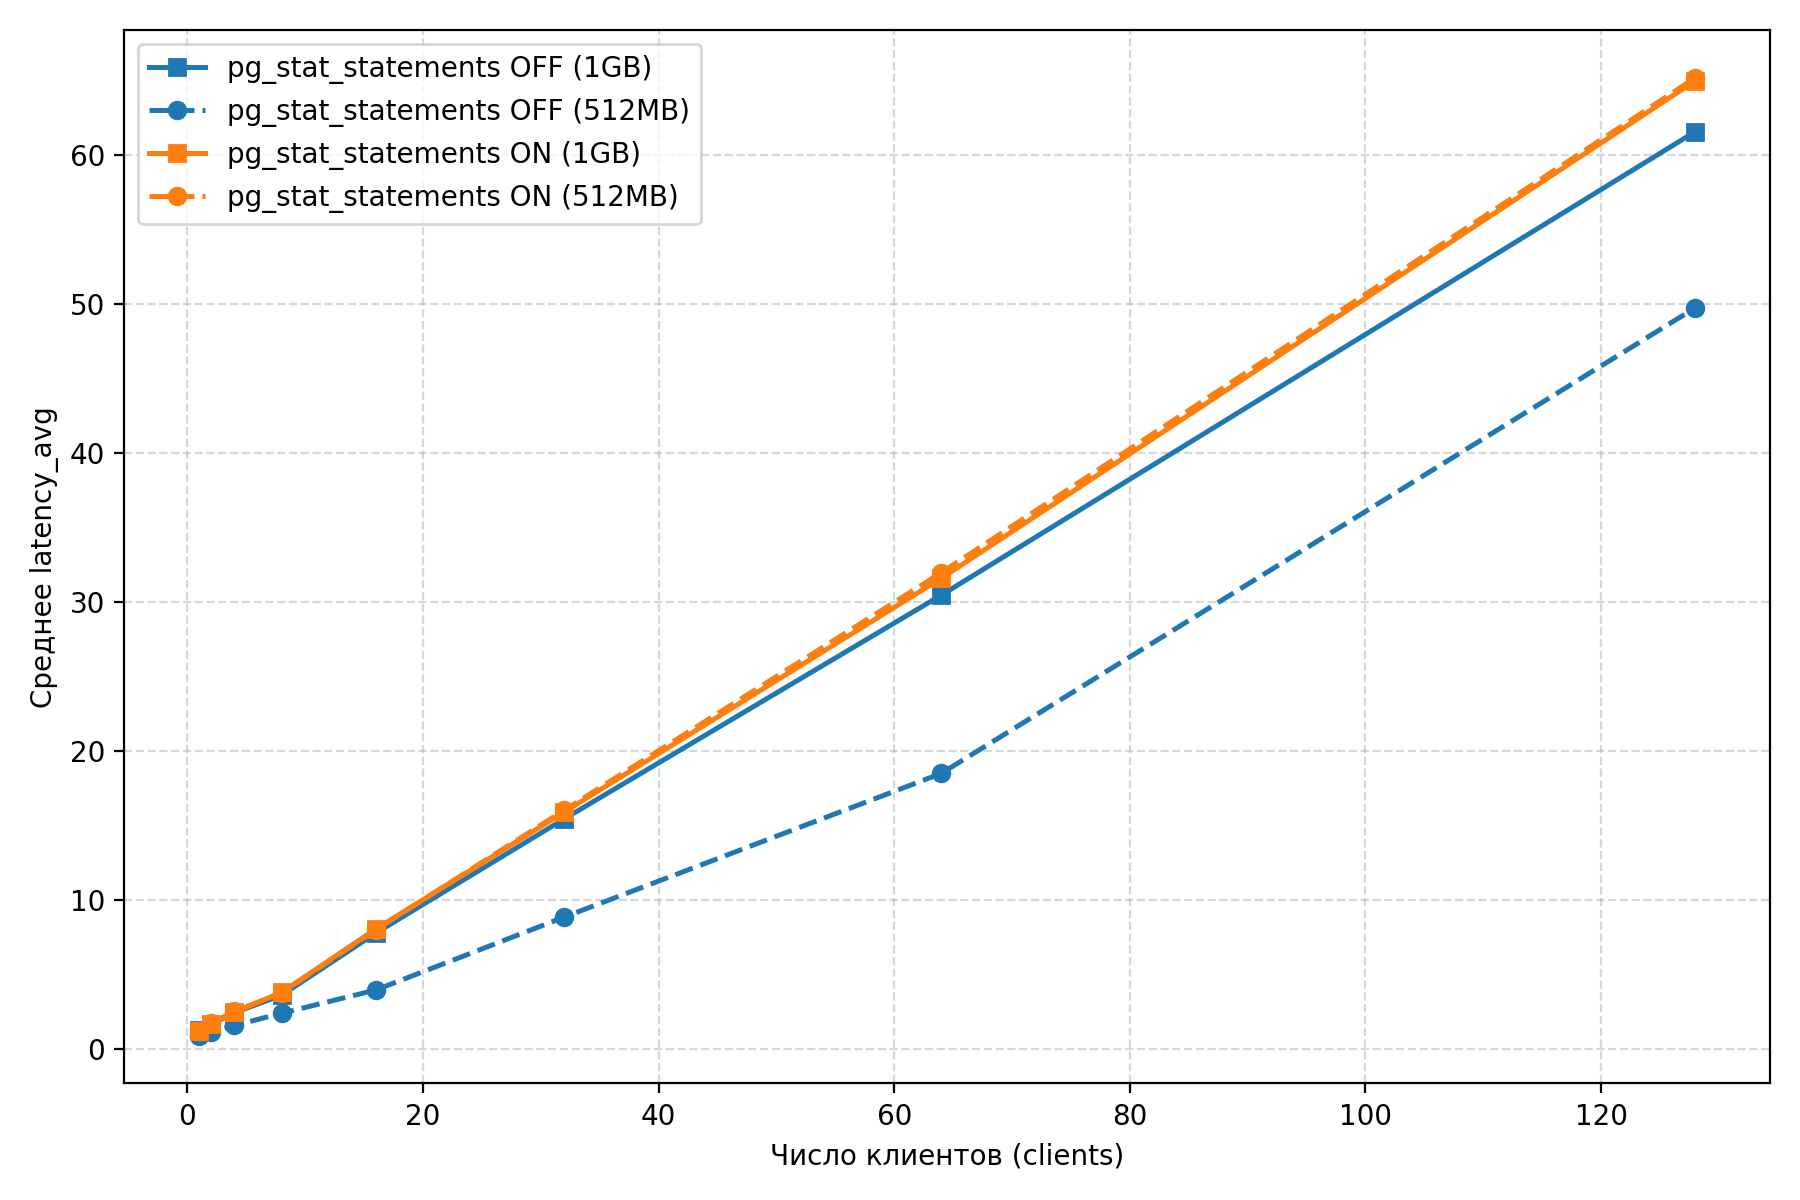
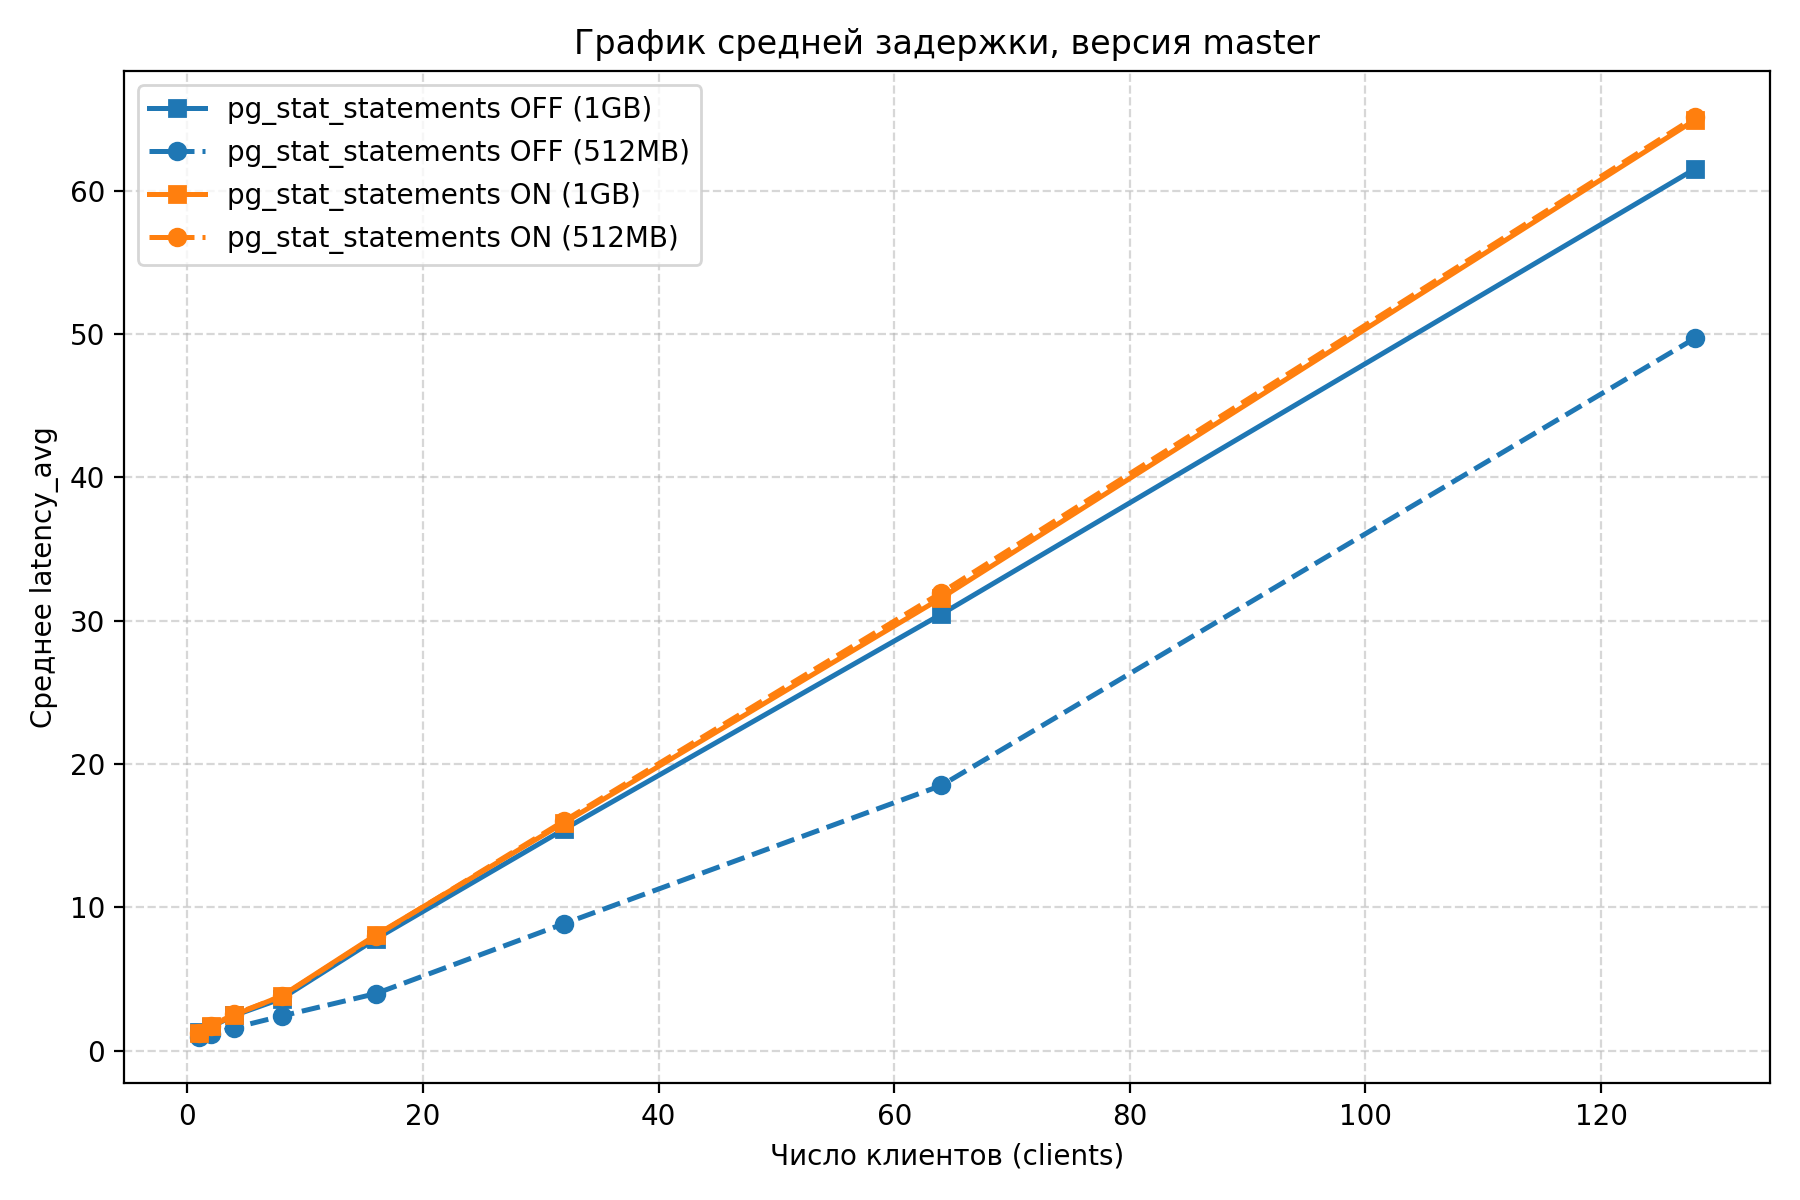
docs: report for task5

diff --git a/python_benchmark_scripts/multirun_mgbench.py b/python_benchmark_scripts/multirun_mgbench.py
@@ -1,9 +1,3 @@
-#!/usr/bin/env python3
-"""
-Нагрузочное тестирование PostgreSQL с pgbench.
-Перебор shared_buffers и числа клиентов, запись результатов в CSV.
-"""
-
 import csv
 import re
 import subprocess
@@ -14,6 +8,7 @@ import sys
 # =============================================
 # Настройки
 # =============================================
+
 DB = "pgbench_test"
 USED_VERSION = sys.argv[1]
 TIME = 60
@@ -31,7 +26,7 @@ PG_CTL = INSTALL_DIR / "bin" / "pg_ctl"
 PGBENCH = INSTALL_DIR / "bin" / "pgbench"
 PSQL = INSTALL_DIR / "bin" / "psql"
 
-RESULT_FILE = Path("tps_results.csv")
+RESULT_FILE = Path(f"results_{USED_VERSION}_unknown.csv")
 TEMP_DIR = Path("temp_results")
 CONF_FILE = DATA_DIR / "postgresql.conf"
 PG_LOG = LOG_DIR / "postgres.log"
@@ -44,6 +39,7 @@ RE_LAT_STDDEV = re.compile(r"latency stddev\s*=\s*([\d.]+)")
 # =============================================
 # Вспомогательные функции
 # =============================================
+
 def run_cmd(cmd):
     """Запустить команду и дождаться завершения. Возвращает CompletedProcess."""
     return subprocess.run(cmd, capture_output=True, text=True)
@@ -58,6 +54,7 @@ def extract(regex, text):
 # =============================================
 # Функция для изменения shared_buffers
 # =============================================
+
 def set_shared_buffers(size):
     print("=" * 41)
     print(f"Устанавливаем shared_buffers = {size}")
@@ -75,11 +72,9 @@ def set_shared_buffers(size):
     )
     CONF_FILE.write_text(new_text, encoding="utf-8")
 
-    # Перезапустить сервер
     run_cmd([str(PG_CTL), "-D", str(DATA_DIR), "-l", str(PG_LOG), "restart"])
     time.sleep(2)
 
-    # Проверить, что параметр применился
     if USED_VERSION == "master":
         cp = run_cmd([str(PSQL), "-d", "postgres", "-t", "-c", "SHOW shared_buffers;"])
     else:
@@ -91,11 +86,11 @@ def set_shared_buffers(size):
 # =============================================
 # Функция для запуска одного теста и извлечения результатов
 # =============================================
+
 def run_and_extract(buffers, clients, run_num):
     temp_log_file = TEMP_DIR / f"bench_{buffers}_c{clients}_run{run_num}.log"
     print(f"Запуск: buffers={buffers}, clients={clients}, run={run_num}")
 
-    # Запуск pgbench, вывод пишем в лог-файл (аналог '> log 2>&1')
     with temp_log_file.open("w", encoding="utf-8") as temp_log:
         if USED_VERSION == "master":
             subprocess.run(
@@ -139,10 +134,10 @@ def run_and_extract(buffers, clients, run_num):
 # =============================================
 # Основной цикл
 # =============================================
+
 def main():
     TEMP_DIR.mkdir(exist_ok=True)
 
-    # Открываем CSV один раз и пишем заголовок + все строки
     with RESULT_FILE.open("w", newline="", encoding="utf-8") as f:
         writer = csv.writer(f)
         writer.writerow(["buffers", "clients", "run",
@@ -163,6 +158,7 @@ def main():
     # =============================================
     # Завершение
     # =============================================
+    
     print()
     print("=" * 41)
     print("Все тесты завершены!")

diff --git a/python_benchmark_scripts/two_files_lat_graphic_pgbench.py b/python_benchmark_scripts/two_files_lat_graphic_pgbench.py
@@ -8,8 +8,8 @@ import sys
 
 USED_VERSION = sys.argv[1]
 FILES = {
-    "pg_stat_statements OFF": f"tps_results_{USED_VERSION}_base.csv",
-    "pg_stat_statements ON": f"tps_results_{USED_VERSION}_exc.csv",
+    "pg_stat_statements OFF": f"results_{USED_VERSION}_base.csv",
+    "pg_stat_statements ON": f"results_{USED_VERSION}_exc.csv",
 }
 
 FILE_COLORS = {
@@ -61,6 +61,7 @@ for file_label, filename in FILES.items():
 
 ax.set_xlabel("Число клиентов (clients)")
 ax.set_ylabel("Среднее latency_avg")
+ax.set_title(f"График средней задержки, версия {USED_VERSION}")
 
 ax.grid(True, which="both", linestyle="--", alpha=0.5)
 ax.legend()
@@ -70,5 +71,5 @@ plt.tight_layout()
 # 4. Сохранение и показ
 # =============================================
 
-plt.savefig("lat_plot.png", dpi=200)
+plt.savefig(f"lat_plot_{USED_VERSION}.png", dpi=200)
 plt.show()

diff --git a/python_benchmark_scripts/two_files_tps_graphic_pgbench.py b/python_benchmark_scripts/two_files_tps_graphic_pgbench.py
@@ -8,8 +8,8 @@ import sys
 
 USED_VERSION = sys.argv[1]
 FILES = {
-    "pg_stat_statements OFF": f"tps_results_{USED_VERSION}_base.csv",
-    "pg_stat_statements ON": f"tps_results_{USED_VERSION}_exc.csv",
+    "pg_stat_statements OFF": f"results_{USED_VERSION}_base.csv",
+    "pg_stat_statements ON": f"results_{USED_VERSION}_exc.csv",
 }
 
 FILE_COLORS = {
@@ -60,6 +60,7 @@ for file_label, filename in FILES.items():
 
 ax.set_xlabel("Число клиентов (clients)")
 ax.set_ylabel("Среднее TPS")
+ax.set_title(f"График TPS, версия {USED_VERSION}")
 
 ax.set_xscale("log", base=2)
 ax.set_xticks([1, 2, 4, 8, 16, 32, 64, 128])
@@ -73,5 +74,5 @@ plt.tight_layout()
 # 4. Сохранение и показ
 # =============================================
 
-plt.savefig("tps_plot.png", dpi=200)
+plt.savefig(f"tps_plot_{USED_VERSION}.png", dpi=200)
 plt.show()
